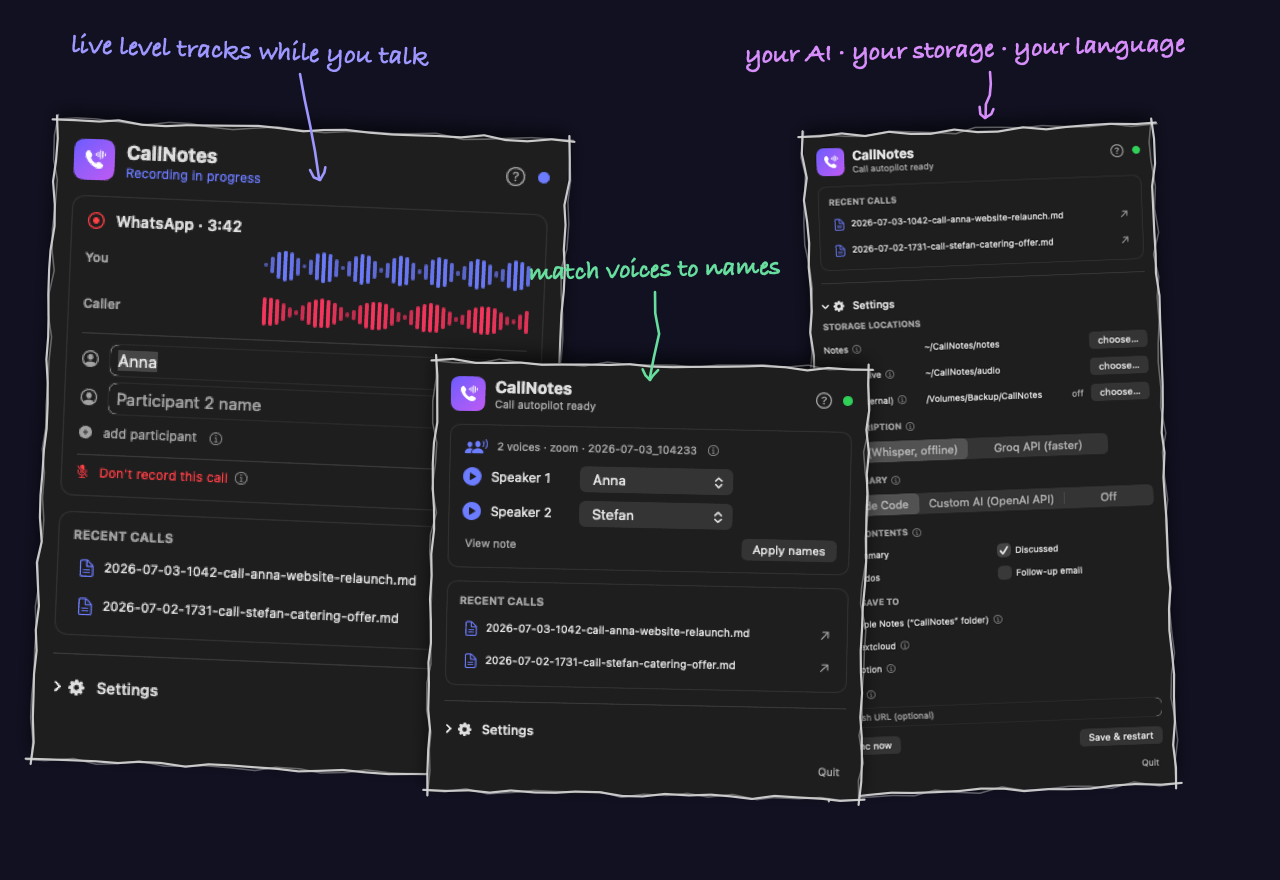
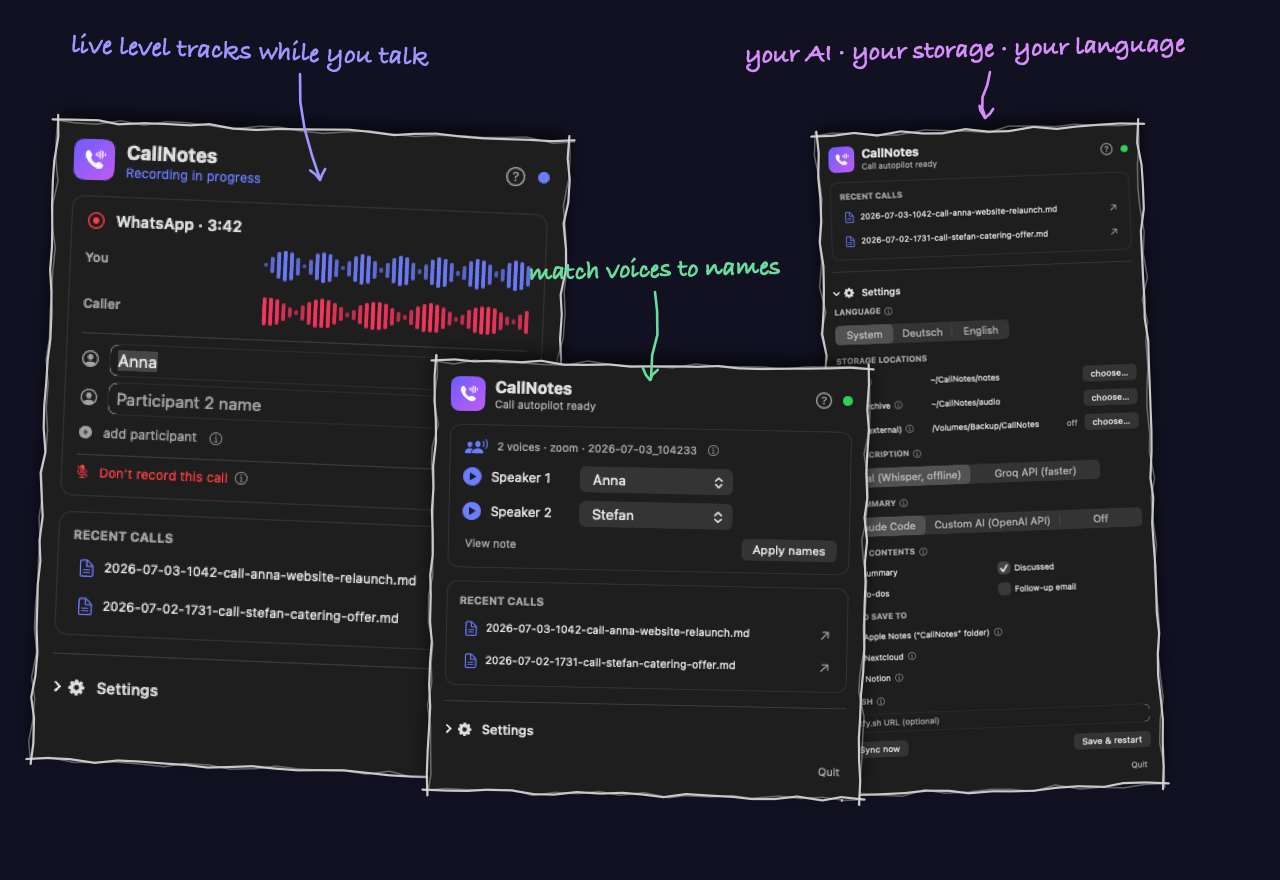
German screenshot collage for the German README

diff --git a/assets/make-sketch-assets.swift b/assets/make-sketch-assets.swift
@@ -346,29 +346,48 @@ func drawRotatedShot(_ url: URL, center: NSPoint, height: CGFloat, rotation: CGF
     NSGraphicsContext.current?.restoreGraphicsState()
 }
 
-let shotsDir = assetsDir.appendingPathComponent("shots")
-let cw: CGFloat = 1280, ch: CGFloat = 880
-srand48(99)
-let shotsImg = NSImage(size: NSSize(width: cw, height: ch), flipped: false) { _ in
-    bgDark.setFill()
-    NSRect(x: 0, y: 0, width: cw, height: ch).fill()
-
-    drawRotatedShot(shotsDir.appendingPathComponent("shot-settings.png"),
-                    center: NSPoint(x: 990, y: 420), height: 660, rotation: 2.2)
-    drawRotatedShot(shotsDir.appendingPathComponent("shot-call.png"),
-                    center: NSPoint(x: 300, y: 430), height: 640, rotation: -2.4)
-    drawRotatedShot(shotsDir.appendingPathComponent("shot-pending.png"),
-                    center: NSPoint(x: 648, y: 300), height: 430, rotation: -1.2)
-
-    handText("live level tracks while you talk", center: NSPoint(x: 250, y: 828), size: 27, color: indigo, rotation: -2)
-    sketchArrow(NSPoint(x: 300, y: 806), NSPoint(x: 320, y: 700), color: indigo, width: 2.6)
-
-    handText("match voices to names", center: NSPoint(x: 655, y: 610), size: 26, color: green, rotation: 1.5)
-    sketchArrow(NSPoint(x: 655, y: 588), NSPoint(x: 650, y: 500), color: green, width: 2.6)
-
-    handText("your AI · your storage · your language", center: NSPoint(x: 965, y: 830), size: 26, color: violet, rotation: 1.5)
-    sketchArrow(NSPoint(x: 990, y: 808), NSPoint(x: 985, y: 762), color: violet, width: 2.6)
-    return true
+struct ShotLabels {
+    let live: String
+    let match: String
+    let yours: String
 }
-savePNG(shotsImg, to: assetsDir.appendingPathComponent("screenshots.png"), w: 1280, h: 880)
-print("OK: assets/screenshots.png")
+
+func drawShotsCompose(suffix: String, labels: ShotLabels, out: String) {
+    let shotsDir = assetsDir.appendingPathComponent("shots")
+    let cw: CGFloat = 1280, ch: CGFloat = 880
+    srand48(99)
+    let img = NSImage(size: NSSize(width: cw, height: ch), flipped: false) { _ in
+        bgDark.setFill()
+        NSRect(x: 0, y: 0, width: cw, height: ch).fill()
+
+        drawRotatedShot(shotsDir.appendingPathComponent("shot-settings\(suffix).png"),
+                        center: NSPoint(x: 990, y: 420), height: 660, rotation: 2.2)
+        drawRotatedShot(shotsDir.appendingPathComponent("shot-call\(suffix).png"),
+                        center: NSPoint(x: 300, y: 430), height: 640, rotation: -2.4)
+        drawRotatedShot(shotsDir.appendingPathComponent("shot-pending\(suffix).png"),
+                        center: NSPoint(x: 648, y: 300), height: 430, rotation: -1.2)
+
+        handText(labels.live, center: NSPoint(x: 250, y: 828), size: 27, color: indigo, rotation: -2)
+        sketchArrow(NSPoint(x: 300, y: 806), NSPoint(x: 320, y: 700), color: indigo, width: 2.6)
+
+        handText(labels.match, center: NSPoint(x: 655, y: 610), size: 26, color: green, rotation: 1.5)
+        sketchArrow(NSPoint(x: 655, y: 588), NSPoint(x: 650, y: 500), color: green, width: 2.6)
+
+        handText(labels.yours, center: NSPoint(x: 965, y: 830), size: 26, color: violet, rotation: 1.5)
+        sketchArrow(NSPoint(x: 990, y: 808), NSPoint(x: 985, y: 762), color: violet, width: 2.6)
+        return true
+    }
+    savePNG(img, to: assetsDir.appendingPathComponent(out), w: 1280, h: 880)
+    print("OK: assets/\(out)")
+}
+
+drawShotsCompose(suffix: "",
+                 labels: ShotLabels(live: "live level tracks while you talk",
+                                    match: "match voices to names",
+                                    yours: "your AI · your storage · your language"),
+                 out: "screenshots.png")
+drawShotsCompose(suffix: ".de",
+                 labels: ShotLabels(live: "Live-Pegel, während du sprichst",
+                                    match: "Stimmen den Namen zuordnen",
+                                    yours: "deine KI · dein Speicher · deine Sprache"),
+                 out: "screenshots.de.png")

diff --git a/SettingsApp.swift b/SettingsApp.swift
@@ -164,8 +164,8 @@ final class Store: ObservableObject {
         ncUrl = ""; ncUser = ""; ncPass = ""
         notionToken = ""; notionParent = ""
         ntfyUrl = ""
-        lastNotes = ["2026-[phone redacted]-call-anna-website-relaunch.md",
-                     "2026-[phone redacted]-call-stefan-catering-offer.md"]
+        lastNotes = [L("2026-[phone redacted]-anruf-anna-website-relaunch.md", "2026-[phone redacted]-call-anna-website-relaunch.md"),
+                     L("2026-[phone redacted]-anruf-stefan-catering-angebot.md", "2026-[phone redacted]-call-stefan-catering-offer.md")]
         if mode == "call" {
             currentCall = CurrentCall(dir: "/tmp/callnotes-demo", appName: "WhatsApp",
                                       start: Date().addingTimeInterval(-222))

diff --git a/README.de.md b/README.de.md
@@ -74,7 +74,7 @@ Alles sitzt in der Menüleiste (Telefon-Symbol):
 - **Deutsch & Englisch** — die App folgt automatisch deiner Systemsprache
 
 <p align="center">
-  <img src="assets/screenshots.png" alt="CallNotes Menüleisten-App — Live-Pegel, Sprecher-Zuordnung, Einstellungen" width="100%">
+  <img src="assets/screenshots.de.png" alt="CallNotes Menüleisten-App — Live-Pegel, Sprecher-Zuordnung, Einstellungen" width="100%">
 </p>
 
 ## Installation